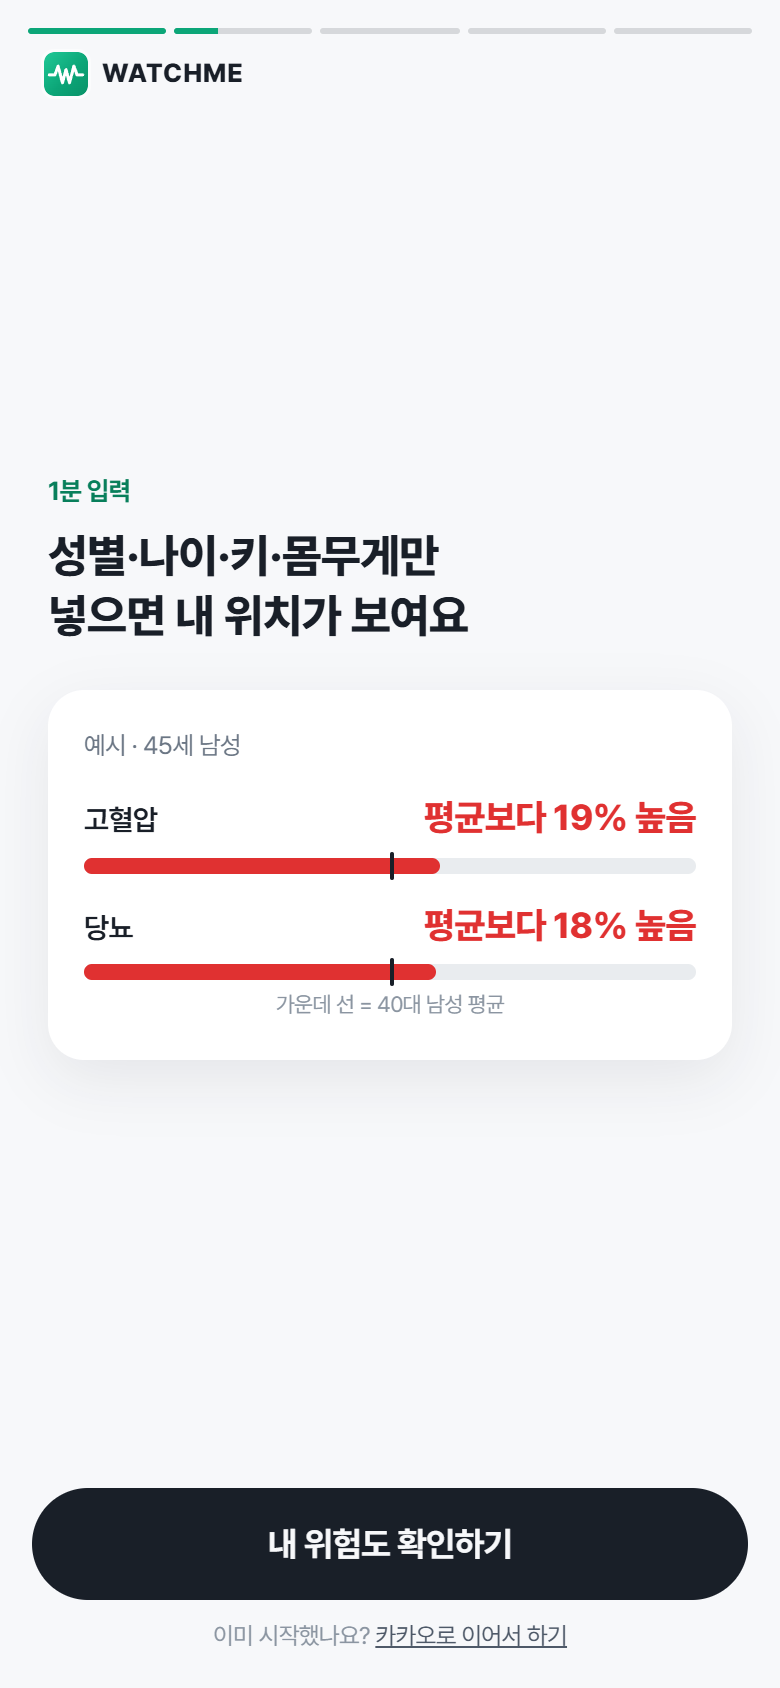
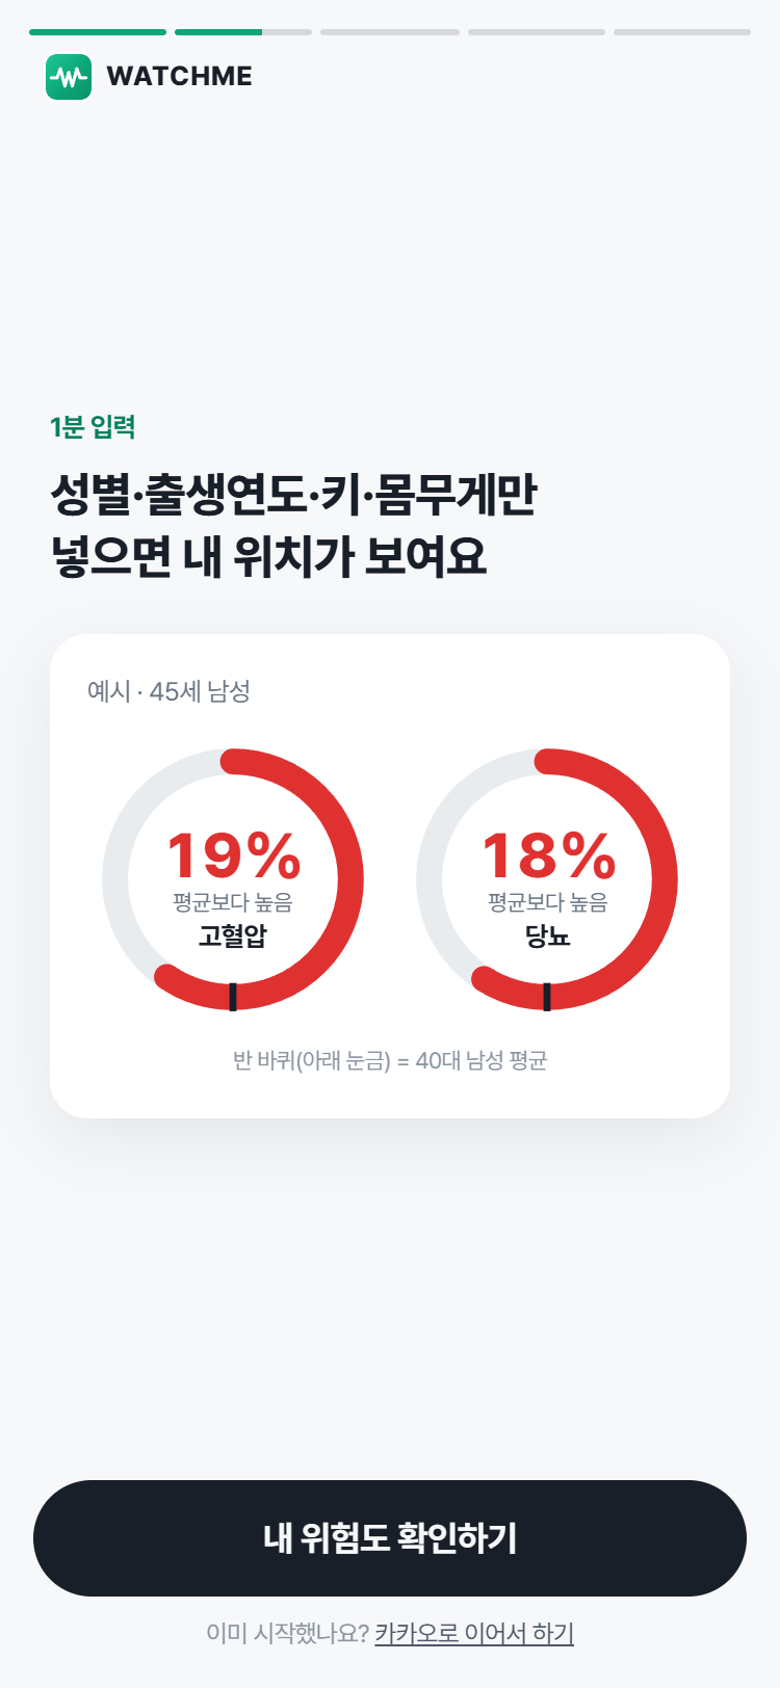
docs: deliverables 랜딩 모션 반영(캡처 4장 갱신)

diff --git a/docs/deliverables/requirements.md b/docs/deliverables/requirements.md
@@ -20,7 +20,7 @@
 
 | ID | 요구사항 | 상세 | 상태 |
 |---|---|---|---|
-| FR-01 | 시작 화면 | 스토리형 5장면(소개 → 예시 45세 남성 실제 위험도 → 30일 달력 → 실제와 같은 카톡 메시지 → 시작 권유), 자동 전환·진행 막대 눌러 이동·화면 눌러 다음, 개인정보 안내(접힘). JS 없으면 세로로 쌓임. 통계 파일이 없으면 "준비 중" (2026-11-18 개편) | ✅ |
+| FR-01 | 시작 화면 | 스토리형 5장면(소개 → 예시 45세 남성 실제 위험도 → 30일 달력 → 실제와 같은 카톡 메시지 → 시작 권유), 자동 전환·진행 막대 눌러 이동·화면 눌러 다음, 개인정보 안내(접힘). JS 없으면 세로로 쌓임. 통계 파일이 없으면 "준비 중" (2026-11-18 개편). 모션(2026-11-24): 첫 장면 심박 선 그리기·배경 빛·표본 수 카운트업, 예시 위험도 원형 게이지(반 바퀴 = 같은 집단 평균), 카톡 "입력 중" 점. 외부 스크립트 없이 CSS·SVG, 동작 줄이기면 최종 모습만 | ✅ |
 | FR-01a | 대표 아이콘 | 맥박 W 아이콘: 브라우저 탭, 홈 화면 추가(manifest), 카톡 링크 미리보기(og 태그·1200×630 그림), 모든 화면 머리 | ✅ |
 | FR-02 | 몸 정보 입력 | 성별 → 출생연도 → 키 → 몸무게, 한 화면 한 질문(토스식). 출생연도로 받아 나이(올해 − 출생연도)로 바꿔 씀(사용자 피드백 반영). 범위: 나이 18–100(출생연도 올해−100 ~ 올해−18), 키 120–220, 몸무게 30–250. JS가 꺼져도 일반 폼으로 동작 | ✅ |
 | FR-03 | 참고 위험도 계산 | 성별×연령대×질환별 가중 로지스틱 회귀(연속 BMI, 16–40 밖은 경계값) ÷ 같은 성별·연령대 유병률 → "평균보다 N% 높음/낮음", 수준(낮음/보통/높음) | ✅ |

diff --git a/docs/deliverables/README.md b/docs/deliverables/README.md
@@ -45,6 +45,7 @@ OZ코딩스쿨 최종 프로젝트 제출 자료 모음이에요. 코드·설계
 - 운영 지표 `/admin`·랜딩 조회 카운터·카톡 발송 기록(2026-11-18): requirements FR-41~44, api #22, erd 4장, wireframes ⑧-3.
 - 발표 준비 점검(2026-11-19): 오래된 문구 정리(erd 제목·표 11개, requirements 근거 문서·테스트 수, links 문서 목록·데이터 출처), PPT 구성안·시연 대본 다시 씀, 저장소 README 만듦. 와이어프레임 실제 캡처·카톡 화면, ERD 표 11개 한 장 이미지(`erd.png`) 추가.
 - 알림 시간 선택(2026-11-23): 아침 05:00~10:30·저녁 18:00~23:30 30분 단위, cron 30분마다. requirements FR-45(FR-24·25·27·40 수정), api 3장·정기 발송, erd `kakao_accounts` 두 칸(`erd.png` 다시 만듦), wireframes ⑥ 카톡 바, PPT 7·10·15장.
+- 랜딩 모션 업그레이드(2026-11-24): 첫 장면 심박 선·배경 빛·16,937명 카운트업, 예시 위험도 원형 게이지, 카톡 입력 중 점. requirements FR-01, wireframes ①(캡처 `01-landing*.png` 4장 다시 찍음).
 - 나이 → 출생연도 입력(2026-11-19, 사용자 피드백): 서버가 올해(KST) − 출생연도로 나이 계산, 저장·통계는 그대로. requirements FR-02, api 2.1, wireframes ②, demo-script 0:20.
 
 ## 직접 해야 할 것 (발표 전)
@@ -57,4 +58,4 @@ OZ코딩스쿨 최종 프로젝트 제출 자료 모음이에요. 코드·설계
 - [ ] PPT 빈칸 채우기: 2장 사용자 숫자·날짜, 8장 영상 링크, 14장 "숫자를 보고 고친 것"
 
 - 데모 체험(`scripts/seed_demo.py`)도 운영 지표에서 빠지게 고침(2026-11-19).
-- 마지막 갱신: 2026-11-19 (main 배포, 테스트 377개 통과)
+- 마지막 갱신: 2026-11-19 (main 배포, 테스트 381개 통과)

diff --git a/docs/deliverables/wireframes.md b/docs/deliverables/wireframes.md
@@ -46,10 +46,13 @@ flowchart TD
 │ [W] WATCHME                   │ ← 맥박 W 아이콘
 │                              │
 │  장면 1 (초록) 30일 생활습관 챌린지 │
+│   심박 선이 그려지고 끝점이 박동, 배경 빛이 천천히 흐름 │
 │   내 혈압·혈당 위험, 또래 평균과 비교해 보세요 │
-│  장면 2 (흰) 1분 입력 — 예시 45세 남성 막대가 차오름 │
+│   16,937명 (0부터 올라감) 국민건강영양조사 성인 기준 │
+│  장면 2 (흰) 1분 입력 — 예시 45세 남성 원형 게이지 2개가 돌며 19%·18%까지 │
 │  장면 3 (흰) 맞춤 30일 — 30칸 달력이 차례로 채워짐(자유 한 끼 노랑) │
 │  장면 4 (흰) 카톡으로 챙겨 드려요 — '나와의 채팅' 07:30 계획·21:00 기록 알림 │
+│           (말풍선마다 '• • •' 입력 중이 먼저 보임) │
 │           (실제 발송 문장·버튼 그대로, 답장 없음, 카카오 켜졌을 때만) │
 │  장면 5 (초록) 지금 내 위험도부터 확인해 볼까요? │
 │           [접힌 카드] 🔒 이름·연락처는 받지 않아요 ▸ · (면책 문구) │
